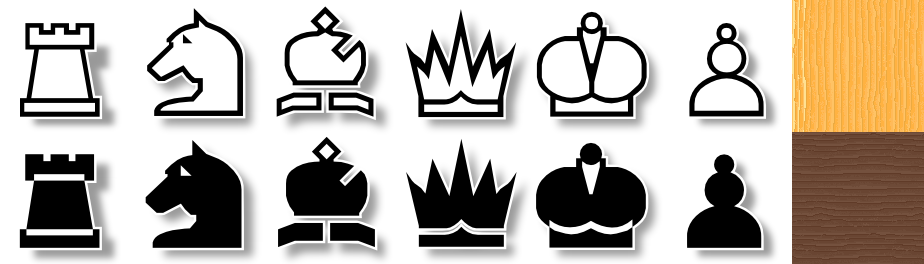
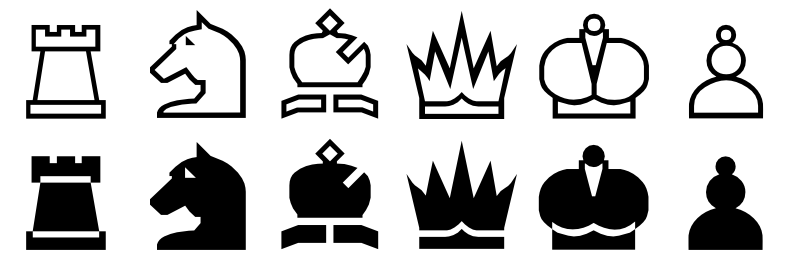
Separate piece and board graphics, optional outline and shadow.
git-svn-id: https://svn.code.sf.net/p/chessx/code/trunk@707 1de841de-8530-0410-b3ab-d372fa6ee214

diff --git a/src/gui/boardtheme.cpp b/src/gui/boardtheme.cpp
@@ -63,58 +63,76 @@ bool BoardTheme::isValid() const
 	return !m_pieceFilename.isNull();
 }
 
-bool BoardTheme::load(const QString& themeFile, LoadTheme load)
+bool BoardTheme::loadPieces(const QString& pieces, const QString& effect)
 {
-	QString themePath = QString("%1/%2.png").arg(themeDirectory()).arg(themeFile);
+	QString etest = effect.toLower();
+	QString effectPath = "/";
+	if (etest != "plain")
+		effectPath += etest + "/";
+	QString themePath = QString("%1%2%3.png").arg(themeDirectory()).arg(effectPath).arg(pieces);
+
 	QPixmap big;
 	if (!big.load(themePath) || big.width() < 160)
 		return false;
+
 	int realsize = big.height() / 2;
-	if (realsize != big.width() / 7)
+	if (realsize != big.width() / 6)
 		return false;
 
 	/* Cut big theme bitmap into separate pieces */
-	if (load & LoadPieces) {
-		m_originalPiece[WhiteRook] = big.copy(0 * realsize, 0, realsize, realsize);
-		m_originalPiece[WhiteKnight] = big.copy(1 * realsize, 0, realsize, realsize);
-		m_originalPiece[WhiteBishop] = big.copy(2 * realsize, 0, realsize, realsize);
-		m_originalPiece[WhiteQueen] = big.copy(3 * realsize, 0, realsize, realsize);
-		m_originalPiece[WhiteKing] = big.copy(4 * realsize, 0, realsize, realsize);
-		m_originalPiece[WhitePawn] = big.copy(5 * realsize, 0, realsize, realsize);
-		m_originalPiece[BlackRook] = big.copy(0 * realsize, realsize, realsize, realsize);
-		m_originalPiece[BlackKnight] = big.copy(1 * realsize, realsize, realsize, realsize);
-		m_originalPiece[BlackBishop] = big.copy(2 * realsize, realsize, realsize, realsize);
-		m_originalPiece[BlackQueen] = big.copy(3 * realsize, realsize, realsize, realsize);
-		m_originalPiece[BlackKing] = big.copy(4 * realsize, realsize, realsize, realsize);
-		m_originalPiece[BlackPawn] = big.copy(5 * realsize, realsize, realsize, realsize);
-		m_pieceFilename = themePath;
-	}
+	m_originalPiece[WhiteRook] = big.copy(0 * realsize, 0, realsize, realsize);
+	m_originalPiece[WhiteKnight] = big.copy(1 * realsize, 0, realsize, realsize);
+	m_originalPiece[WhiteBishop] = big.copy(2 * realsize, 0, realsize, realsize);
+	m_originalPiece[WhiteQueen] = big.copy(3 * realsize, 0, realsize, realsize);
+	m_originalPiece[WhiteKing] = big.copy(4 * realsize, 0, realsize, realsize);
+	m_originalPiece[WhitePawn] = big.copy(5 * realsize, 0, realsize, realsize);
+	m_originalPiece[BlackRook] = big.copy(0 * realsize, realsize, realsize, realsize);
+	m_originalPiece[BlackKnight] = big.copy(1 * realsize, realsize, realsize, realsize);
+	m_originalPiece[BlackBishop] = big.copy(2 * realsize, realsize, realsize, realsize);
+	m_originalPiece[BlackQueen] = big.copy(3 * realsize, realsize, realsize, realsize);
+	m_originalPiece[BlackKing] = big.copy(4 * realsize, realsize, realsize, realsize);
+	m_originalPiece[BlackPawn] = big.copy(5 * realsize, realsize, realsize, realsize);
+	m_pieceFilename = themePath;
 
-	/* Background */
-	if (load & LoadBoard) {
-		m_originalSquare[0] = big.copy(6 * realsize, 0, realsize, realsize);
-		m_originalSquare[1] = big.copy(6 * realsize, realsize, realsize, realsize);
-		m_boardFilename = themePath;
-	}
-	// Restore previous size
 	if (size().isEmpty())
 		setSize(QSize(realsize, realsize));
-	else
-		setSize(size());
+	else	setSize(size());
+	return true;
+}
+
+bool BoardTheme::loadBoard(const QString& board)
+{
+	if (board.isEmpty()) {
+		m_boardFilename = board;
+		updateSquares();
+		return true;
+	}
+	QString themePath = QString("%1/boards/%2.png").arg(themeDirectory()).arg(board);
+	QPixmap big;
+	if (!big.load(themePath))
+		return false;
+	int realsize = big.height() / 2;
+	if (realsize != big.width())
+		return false;
+
+	m_originalSquare[0] = big.copy(0, 0, realsize, realsize);
+	m_originalSquare[1] = big.copy(0, realsize, realsize, realsize);
+	m_boardFilename = themePath;
+
 	updateSquares();
 	return true;
 }
 
-bool BoardTheme::load(const QString& pieceFile, const QString& boardFile)
+void BoardTheme::configure()
 {
-	if (pieceFile == boardFile)
-		return load(pieceFile, LoadAll);
-	else if (!boardFile.isEmpty())
-		return load(pieceFile, LoadPieces) && load(boardFile, LoadBoard);
-	else {
-		m_boardFilename = QString();
-		return load(pieceFile, LoadPieces);
-	}
+	QString pieceTheme = AppSettings->value("pieceTheme", "default").toString();
+	QString pieceEffect = AppSettings->value("pieceEffect", "Plain").toString();
+	QString boardTheme = AppSettings->value("boardTheme", "default").toString();
+
+	if (!loadPieces(pieceTheme, pieceEffect))
+		if (!loadPieces(pieceTheme, "plain"))
+			loadPieces("merida", "outline");
+	loadBoard(boardTheme);
 }
 
 QSize BoardTheme::size() const

diff --git a/src/gui/preferences.cpp b/src/gui/preferences.cpp
@@ -180,18 +180,32 @@ void PreferencesDialog::restoreSettings()
 	ui.boardFrameCheck->setChecked(AppSettings->value("showFrame", true).toBool());
 	ui.guessMoveCheck->setChecked(AppSettings->value("guessMove", true).toBool());
 	QString pieceTheme = AppSettings->value("pieceTheme", "default").toString();
+	QString pieceEffect = AppSettings->value("pieceEffect", "Plain").toString();
 	QString boardTheme = AppSettings->value("boardTheme", "default").toString();
 	AppSettings->endGroup();
 
-	QStringList themes = QDir(AppSettings->dataPath() + "/themes").entryList(QStringList("*.png"));
+	QString themeDir(AppSettings->dataPath() + "/themes");
+	QStringList themes = QDir(themeDir).entryList(QStringList("*.png"));
 	for (QStringList::Iterator it = themes.begin(); it != themes.end(); ++it) {
 		(*it).truncate((*it).length() - 4);
 		ui.pieceThemeCombo->addItem(*it);
-		ui.boardThemeCombo->addItem(*it);
+	}
+
+	themes = QDir(themeDir+"/boards").entryList(QStringList("*.png"));
+	QStringListIterator it(themes);
+	while (it.hasNext()) {
+		QString trim(it.next());
+		ui.boardThemeCombo->addItem(trim.left(trim.length() - 4));
 	}
 	ui.boardThemeCombo->addItem(tr("[plain colors]"));
+
+	ui.pieceEffect->addItem(tr("Plain"));
+	ui.pieceEffect->addItem(tr("Outline"));
+	ui.pieceEffect->addItem(tr("Shadow"));
+
 	selectInCombo(ui.pieceThemeCombo, pieceTheme);
 	selectInCombo(ui.boardThemeCombo, boardTheme);
+	selectInCombo(ui.pieceEffect, pieceEffect);
 
 	// Read Players settings
 	AppSettings->beginGroup("/Players/");
@@ -233,10 +247,10 @@ void PreferencesDialog::saveSettings()
 	AppSettings->setValue("showFrame", ui.boardFrameCheck->isChecked());
 	AppSettings->setValue("guessMove", ui.guessMoveCheck->isChecked());
 	AppSettings->setValue("pieceTheme", ui.pieceThemeCombo->currentText());
+	AppSettings->setValue("pieceEffect", ui.pieceEffect->currentText());
 	if (ui.boardThemeCombo->currentIndex() != ui.boardThemeCombo->count() - 1)
 		AppSettings->setValue("boardTheme", ui.boardThemeCombo->currentText());
-	else
-		AppSettings->setValue("boardTheme", QString());
+	else	AppSettings->setValue("boardTheme", QString());
 	QStringList colorNames;
 	colorNames << "lightColor" << "darkColor" << "highlightColor" << "frameColor";
 	saveColorList(ui.boardColorsList, colorNames);

diff --git a/src/gui/boardview.cpp b/src/gui/boardview.cpp
@@ -276,24 +276,6 @@ void BoardView::wheelEvent(QWheelEvent* e)
 	emit wheelScrolled(change + e->modifiers());
 }
 
-bool BoardView::setTheme(const QString& pieceFile, const QString& boardFile)
-{
-	bool result = m_theme.load(pieceFile, boardFile);
-	if (!result) {
-		QMessageBox::warning(0, tr("Error"), tr("<qt>Cannot open theme <b>%1</b> from directory:<br>%2</qt>")
-				     .arg(pieceFile).arg(m_theme.themeDirectory()));
-		// If there is no theme, try to load default
-		if (!m_theme.isValid()) {
-			result = m_theme.load("merida");
-			if (result)
-				resizeBoard();
-		}
-	}
-	if (result)
-		update();
-	return result;
-}
-
 void BoardView::setFlipped(bool flipped)
 {
 	m_flipped = flipped;
@@ -317,7 +299,7 @@ void BoardView::configure()
 	m_theme.setColor(BoardTheme::Frame, AppSettings->value("frameColor", "#000000").value<QColor>());
 	QString pieceTheme = AppSettings->value("pieceTheme", "merida").toString();
 	QString boardTheme = AppSettings->value("boardTheme", "merida").toString();
-	setTheme(pieceTheme, boardTheme);
+	m_theme.configure();
 	AppSettings->endGroup();
 	removeGuess();
 	unselectSquare();

diff --git a/src/gui/boardtheme.h b/src/gui/boardtheme.h
@@ -38,10 +38,12 @@ public:
 	enum LoadTheme {LoadBoard = 1, LoadPieces = 2, LoadAll = LoadBoard | LoadPieces};
 	BoardTheme();
 	~BoardTheme();
-	/** Loads theme description from Eboard-compatible PNG file. */
-	bool load(const QString& themeFile, LoadTheme = LoadAll);
-	/** Loads theme description from Eboard-compatible PNG file. */
-	bool load(const QString& pieceFile, const QString& boardFile);
+	/** Reset piece and board selections based on config values */
+	void configure();
+	/** Load piece graphics named by string + effect name */
+	bool loadPieces(const QString& pieces, const QString& effect);
+	/** Load board graphics named by string */
+	bool loadBoard(const QString& board);
 	/** Sets one of the board colors. */
 	void setColor(ColorRole role, const QColor& value);
 	/** @return one of the board colors. */

diff --git a/src/gui/boardview.h b/src/gui/boardview.h
@@ -49,9 +49,6 @@ public:
 	Board board() const;
 	/** @return current theme */
 	const BoardTheme& theme() const;
-	/** Reads new theme from file. If two files are given, pieces are read from the first one,
-	board from the second. */
-	bool setTheme(const QString& themeFile, const QString& boardFile);
 	/** Flips/unflips board. */
 	void setFlipped(bool flipped);
 	/** @return @p true if board is displayed upside down. */
